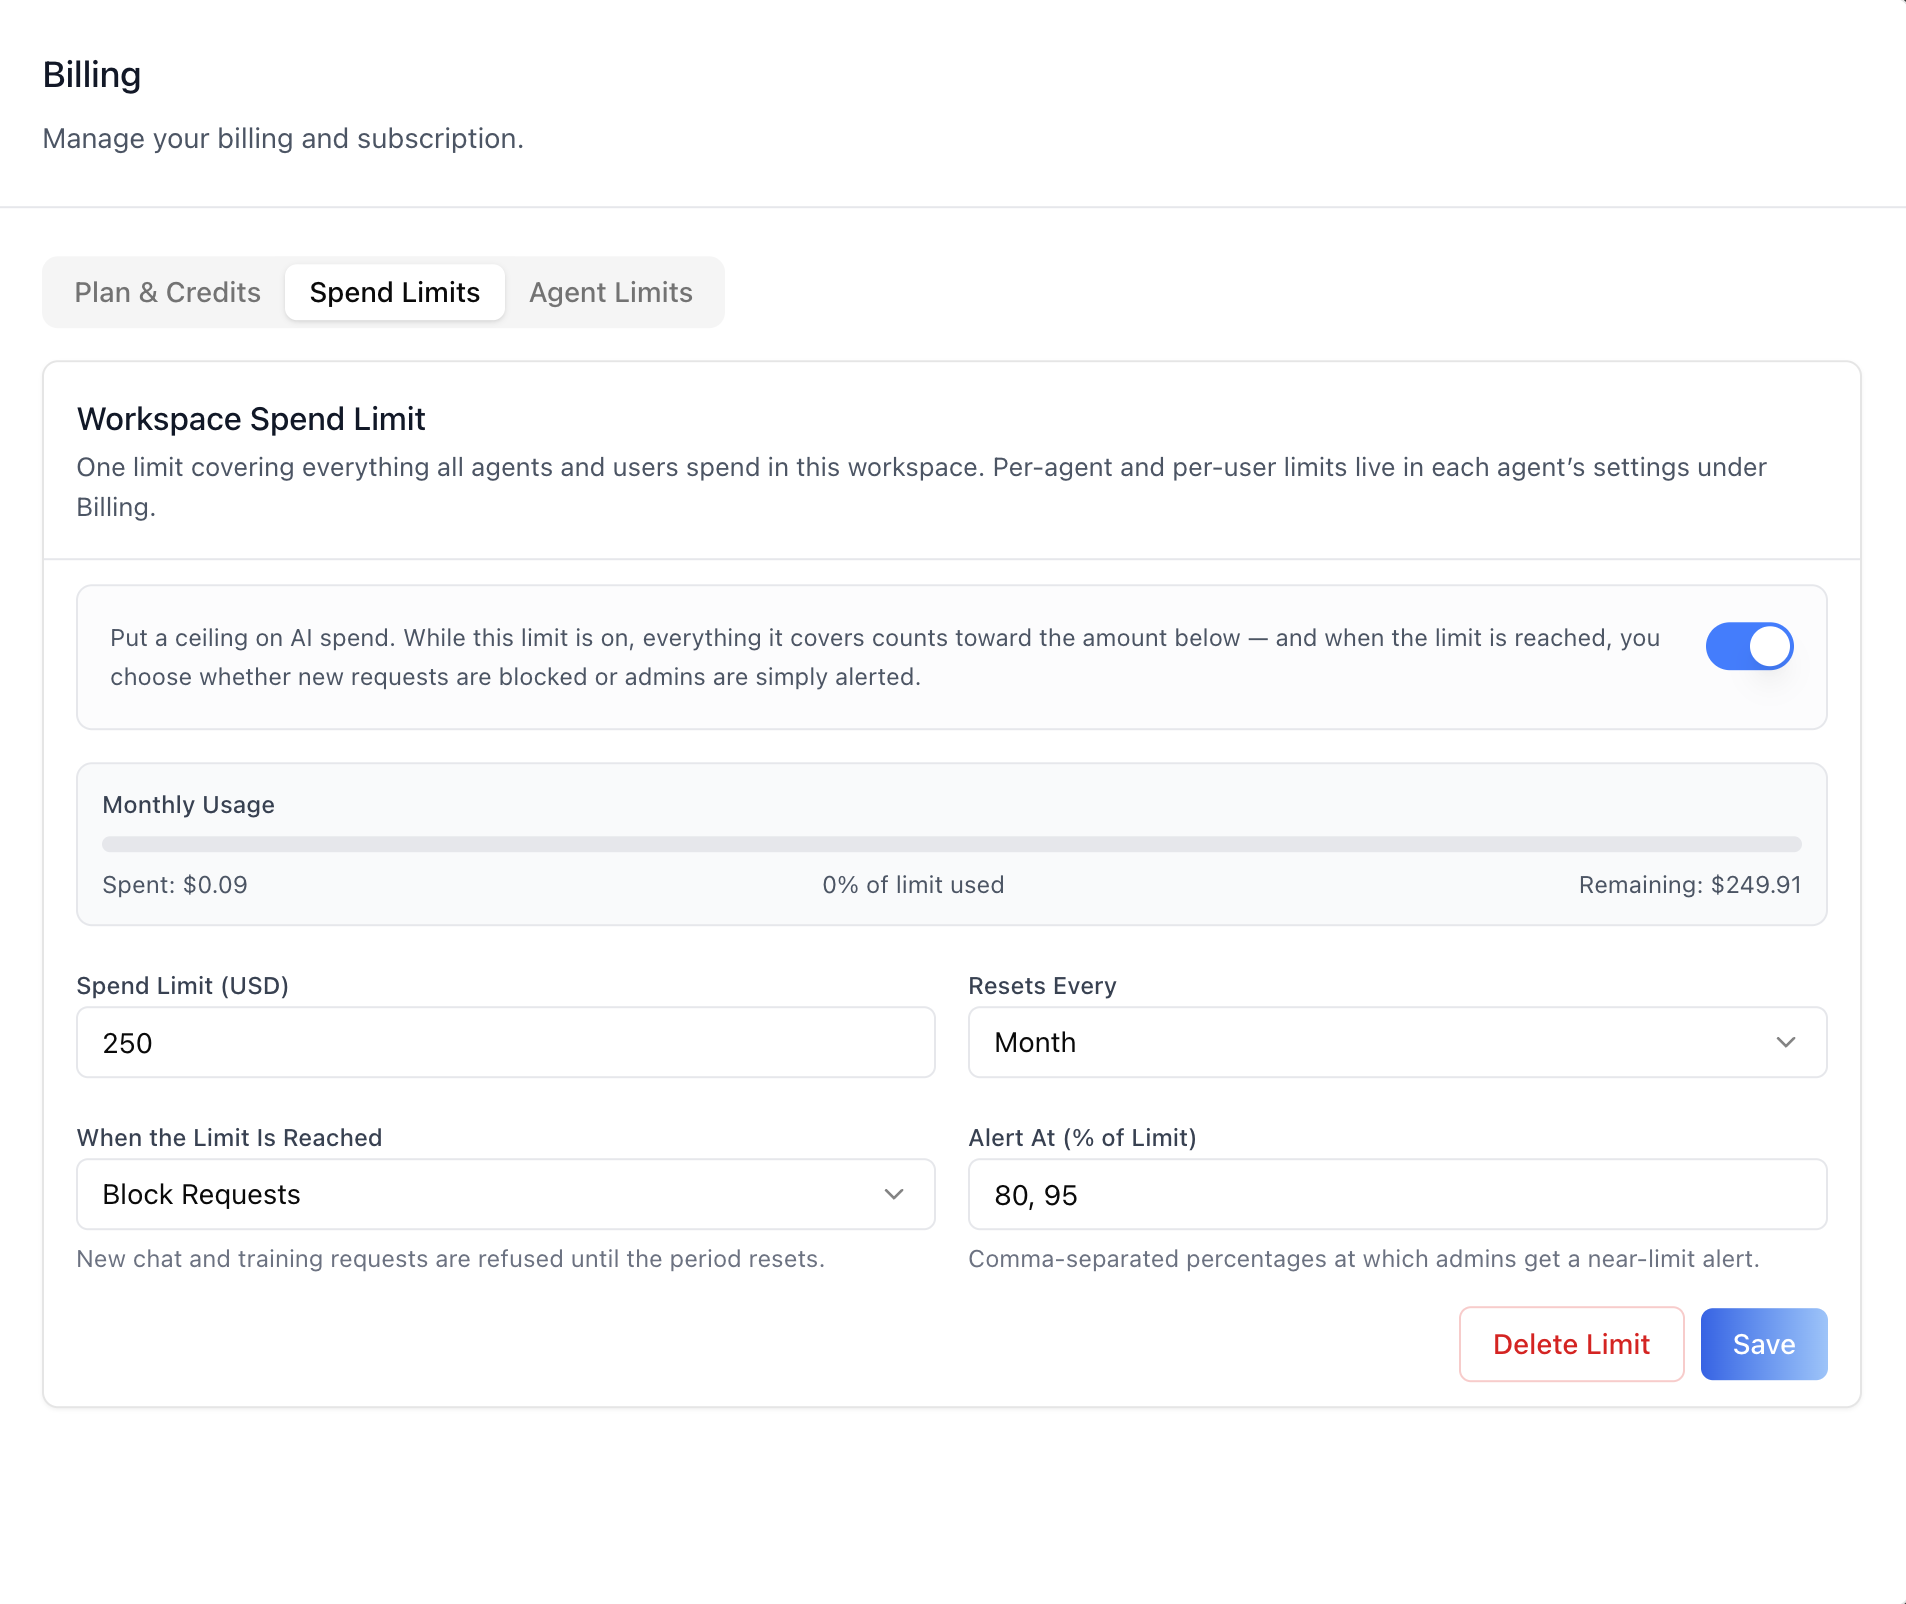
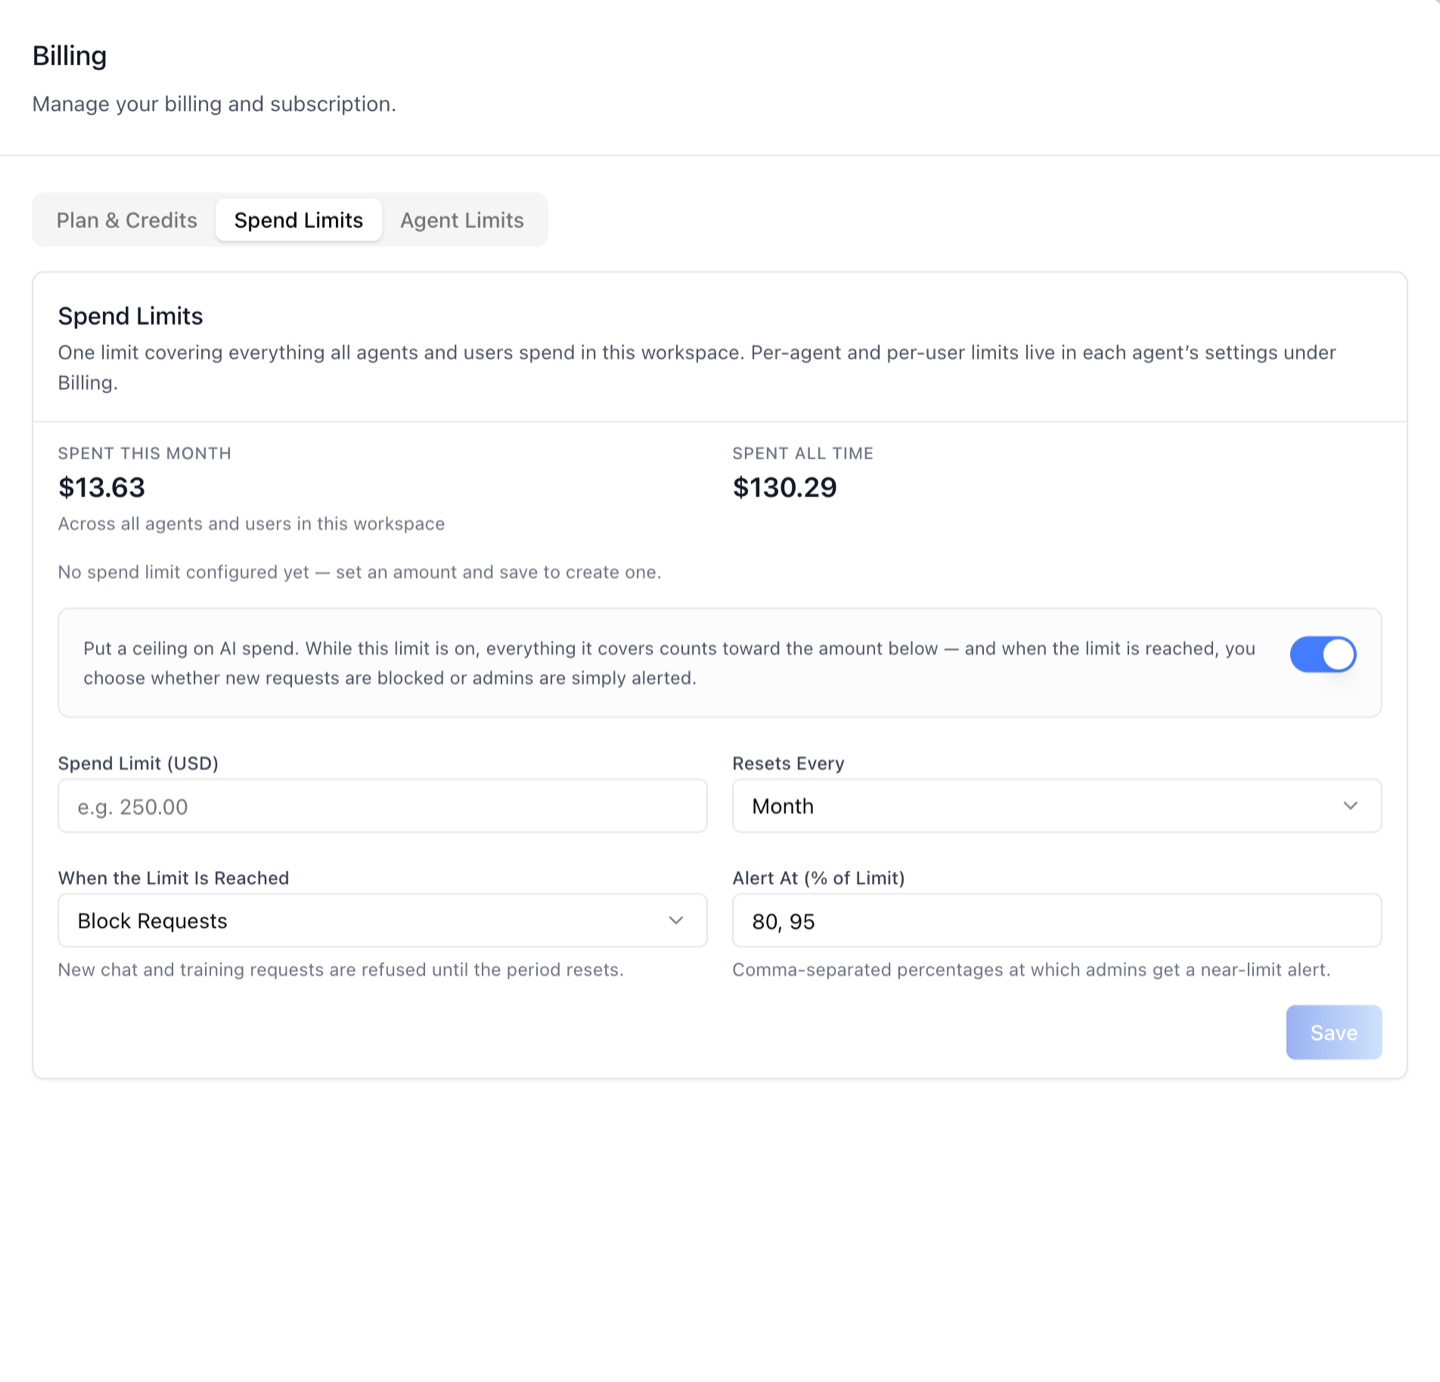
docs(skills): refresh Spend Limits and Agent Limits screenshots in iblai-vibe-billing
Recapture both tabs after the section rename (Spend Limits / Agent Limits):
the org-wide limit now leads with spent-this-month and all-time before a
cap exists, and the agent table carries the Alert Only badge per row.

diff --git a/adapters/codex/iblai-vibe-billing.md b/adapters/codex/iblai-vibe-billing.md
@@ -25,9 +25,9 @@ management, the workspace-wide cap, and the cross-agent overview.
 
 ![Manage Usage (Auto Recharge) Modal](https://raw.githubusercontent.com/iblai/vibe/refs/heads/main/skills/billing/iblai-vibe-billing/iblai-vibe-billing-manage-usage.png)
 
-![Billing — Spend Limits (workspace-wide)](https://raw.githubusercontent.com/iblai/vibe/refs/heads/main/skills/billing/iblai-vibe-billing/iblai-vibe-billing-spend-limits.png)
+![Billing — Spend Limits (one org-wide limit; actual spend shown before a cap exists)](https://raw.githubusercontent.com/iblai/vibe/refs/heads/main/skills/billing/iblai-vibe-billing/iblai-vibe-billing-spend-limits.png)
 
-![Billing — Agent Limits](https://raw.githubusercontent.com/iblai/vibe/refs/heads/main/skills/billing/iblai-vibe-billing/iblai-vibe-billing-agent-limits.png)
+![Billing — Agent Limits (every agent cap, status toggle + Alert Only badge, Manage)](https://raw.githubusercontent.com/iblai/vibe/refs/heads/main/skills/billing/iblai-vibe-billing/iblai-vibe-billing-agent-limits.png)
 
 ![Agent Limits — Manage popup (This Agent)](https://raw.githubusercontent.com/iblai/vibe/refs/heads/main/skills/billing/iblai-vibe-billing/iblai-vibe-billing-agent-limits-manage.png)
 

diff --git a/skills/billing/iblai-vibe-billing/SKILL.md b/skills/billing/iblai-vibe-billing/SKILL.md
@@ -30,9 +30,9 @@ management, the workspace-wide cap, and the cross-agent overview.
 
 ![Manage Usage (Auto Recharge) Modal](https://raw.githubusercontent.com/iblai/vibe/refs/heads/main/skills/billing/iblai-vibe-billing/iblai-vibe-billing-manage-usage.png)
 
-![Billing — Spend Limits (workspace-wide)](https://raw.githubusercontent.com/iblai/vibe/refs/heads/main/skills/billing/iblai-vibe-billing/iblai-vibe-billing-spend-limits.png)
+![Billing — Spend Limits (one org-wide limit; actual spend shown before a cap exists)](https://raw.githubusercontent.com/iblai/vibe/refs/heads/main/skills/billing/iblai-vibe-billing/iblai-vibe-billing-spend-limits.png)
 
-![Billing — Agent Limits](https://raw.githubusercontent.com/iblai/vibe/refs/heads/main/skills/billing/iblai-vibe-billing/iblai-vibe-billing-agent-limits.png)
+![Billing — Agent Limits (every agent cap, status toggle + Alert Only badge, Manage)](https://raw.githubusercontent.com/iblai/vibe/refs/heads/main/skills/billing/iblai-vibe-billing/iblai-vibe-billing-agent-limits.png)
 
 ![Agent Limits — Manage popup (This Agent)](https://raw.githubusercontent.com/iblai/vibe/refs/heads/main/skills/billing/iblai-vibe-billing/iblai-vibe-billing-agent-limits-manage.png)
 
